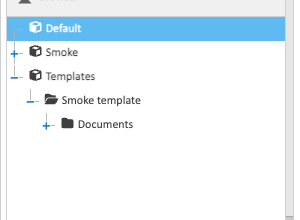
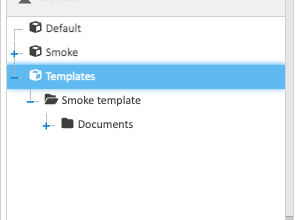
Fix the User and Admin pages after review
From the whole-branch review of PR B, checked against the code:
- Looking up a version by number opens a window with Preview and
  Download, not the Versions tab.
- A Store's own permission change isn't checked against its matters, so
  making a Store private means changing its matters too.
- The Subclass list needs each option's Category set to its Class, under
  the Healdan profile's attribute set.
- Remember me saves the user name and password; the scope picker lasts
  until the browser closes; the search-folder dialog's labels and
  permissions are the dialog's own; and a dozen smaller corrections,
  including Safari's reload shortcut and the default columns.
- The Templates Store screenshot now has Templates selected.

Changed region(s): [[0.0, 0.2727, 0.96, 0.4364], [0.0, 0.0545, 0.96, 0.1909]]

diff --git a/site/content/admin/healdan-settings/index.md b/site/content/admin/healdan-settings/index.md
@@ -4,12 +4,13 @@ weight: 7
 ---
 
 Healdan's own settings are under **Administration → Healdan → Settings**. Click **Save** after changing them.
+Clients are saved from their own window, without Save.
 
 ![The Healdan settings panel: matter labels, numbering, default Class, the Recent Matters window, the next doc #, and the client list with Add client and Edit](healdan-settings.png)
 
 | Setting | What it does |
 |---|---|
-| Matter label, Plural label | the word Healdan uses for a matter, such as Matter and Matters, or Project and Projects. It shows in the scope picker, the left pane's lists, the New Matter dialog and this panel. "Client" can't be changed |
+| Matter label, Plural label | the word Healdan uses for a matter, such as Matter and Matters, or Project and Projects. It shows in the scope picker, the left pane's lists, the New Matter dialog and this panel, and renames the Matter property and the right-click menu items. Others see it after they next sign in. "Client" can't be changed |
 | Numbering | per client or system-wide. See [Matter Numbers](../clients-and-matters/#matter-numbers) |
 | Default Class | the Class a document gets when nothing above it sets one. "Docs" to begin with |
 | Recent Matters window | how many days of a person's work their Recent Matters list covers. 30 to begin with |
@@ -18,5 +19,9 @@ Healdan's own settings are under **Administration → Healdan → Settings**. Cl
 
 ## The Class and Subclass Lists
 
-The choices for Class and Subclass are kept on the Healdan profile, under **Administration → Document metadata →
-Templates**. Each Subclass belongs to one Class.
+The choices for Class and Subclass belong to the Healdan profile's attribute set:
+
+1. Go to **Administration → Document metadata → Templates**, and open the **Attribute sets** tab.
+2. Select **Healdan profile**, then the **Class** or **Subclass** attribute, and open its **Options**.
+3. For each Subclass option, put the Class it belongs to in its **Category**. Healdan refuses a Subclass whose
+   Category isn't the document's Class.

diff --git a/site/content/user/getting-started/getting-around/index.md b/site/content/user/getting-started/getting-around/index.md
@@ -8,7 +8,7 @@ weight: 2
 ## The Top Bar
 
 - **Account** has your profile and password. **Tools** has a few utilities.
-- **The help icon** opens the documentation, and **the power icon** signs you out.
+- **The help icon** opens a Support menu, and **the power icon** signs you out.
 - **The search box** is on the right, with its scope picker beside it. See [Searching](../../finding-documents/searching/).
 
 ## The Tabs
@@ -26,13 +26,14 @@ Administrators also see an **Administration** tab.
 - **My Matters:** the matters you've chosen to keep at hand.
 - **Recent Matters:** the matters you've worked in lately.
 - **Browser:** the folder tree, with the Stores you can see at the top and their matters inside them.
-- **Bookmarks:** documents and folders you've bookmarked.
+- **Bookmarks:** documents and folders you've bookmarked. Your My Matters are kept as bookmarks, so they show here too.
 - **Trash:** things you've deleted, until they're emptied.
 
 [My Matters and Recent Matters](../../finding-documents/my-matters-and-recent-matters/) explains the first two.
 
-**The list** in the middle shows the open folder's documents, with each one's file name, version, doc # and when it
-was last changed. The toolbar above it has the upload button, among others.
+**The list** in the middle shows the open folder's documents: each one's file name, file version, doc #, when it was
+last changed, its size, Author and Class. Scroll sideways for the last columns. The toolbar above it has the upload
+button, among others.
 
 **The details** under the list show the selected document:
 
@@ -46,4 +47,5 @@ was last changed. The toolbar above it has the upload button, among others.
 
 More tabs appear when you have the permissions for them, such as Security.
 
-**The right-hand panel** shows a preview of the selected document too.
+**The right-hand panel** can show a preview of the selected document too. If it shows a **Reload** button, as in the
+picture, click it.

diff --git a/site/content/user/finding-documents/search-folders.md b/site/content/user/finding-documents/search-folders.md
@@ -4,7 +4,8 @@ weight: 3
 ---
 
 A **search folder** is a folder in a matter whose list of documents comes from a rule, such as "documents anyone
-changed in the last 30 days". It can't hold documents or folders of its own. Templates often include two:
+changed in the last 30 days". It can't hold documents or folders of its own. A template might include two, for
+example:
 
 - **Recent Work:** documents anyone in the matter changed in the last 30 days.
 - **My Recent Work:** documents you changed in the last 30 days. Each person sees their own list.
@@ -19,15 +20,16 @@ changed in the last 30 days". It can't hold documents or folders of its own. Tem
 
 ## Creating One
 
-Right-click a folder in the matter and choose **New search folder…**. Only admins can create one directly inside a
-matter's workspace, as with any folder there. The rule has these parts:
+Right-click a folder in the matter and choose **New search folder…**. You need the Add permission on that folder, and
+only admins can create one directly inside a matter's workspace, as with any folder there. The rule has these parts:
 
-| Part | Choices |
+| Field | Choices |
 |---|---|
-| Window | changed in the last *N* days |
-| Whose changes | anyone's, or only the person viewing |
-| Kind | everything, documents only, or emails only |
+| Changed within | the last *N* days |
+| Only my changes | ticked: only the changes of the person viewing; unticked: anyone's |
+| Show | Documents and emails, Documents only, or Emails only |
 | Class | optional: only documents of this Class |
-| Subclass | optional: only documents of this Subclass |
+| Subclass | optional: only documents of this Subclass. It needs a Class |
 
-To change a rule, right-click the search folder and choose **Edit search folder…**.
+To change a rule, right-click the search folder and choose **Edit search folder…**, which needs the Write permission.
+Renaming it needs Rename.

diff --git a/site/content/user/finding-documents/searching/index.md b/site/content/user/finding-documents/searching/index.md
@@ -4,7 +4,7 @@ weight: 1
 ---
 
 The search box is at the top right of the screen. The scope picker beside it says what to search: **Documents**
-unless you change it. It remembers your choice until you sign out.
+unless you change it. It remembers your choice until you close the browser.
 
 ![The scope picker open beside the search box, listing Documents, Emails, Docs & Emails, Folders, Matters and Clients](scopes.png)
 
@@ -20,9 +20,9 @@ unless you change it. It remembers your choice until you sign out.
 | Matters | a matter number such as `998.1`, or words | the matter with that number, opened straight away; or the matters whose name or description contains the words |
 | Clients | a client number or words | the matters of every client whose number or name matches |
 
-Your install may call matters *projects*. The Matters and Clients scopes then use that word.
+Your install may call matters *projects*. The Matters scope then uses that word.
 
-## Words Inside Files
+## Full-Text Search
 
 Full-text search finds words inside documents, including Word, Excel and PowerPoint files, PDFs, and emails' text
 and attachment names. A document is searchable shortly after it's filed.
@@ -31,7 +31,8 @@ and attachment names. A document is searchable shortly after it's filed.
 
 - **`998.1`** opens matter 1 of client 998.
 - **A bare number,** such as `1`, depends on how your install numbers matters. If each client numbers its own
-  matters, it lists every matter numbered 1. If matter numbers are unique across the system, it opens that matter.
+  matters, it lists every matter numbered 1, or opens it if there's only one. If matter numbers are unique across the
+  system, it opens that matter.
 - **Matter results show their client's name,** so two clients' "Leases" matters can be told apart.
 
 ## Results

diff --git a/site/content/admin/stores/index.md b/site/content/admin/stores/index.md
@@ -13,12 +13,18 @@ a Store the same way, with **Rename**.
 
 ## Who Can See a Store
 
-A Store's permissions decide who can see it, and so who can see the matters in it. Set them on the Store's
+A Store's permissions decide who can see it, and they limit who can see the matters in it. Set them on the Store's
 **Security** tab.
+
+**Before creating matters, let the groups your templates use read the Store.** A new Store usually lets in only the
+admin who created it, and New Matter refuses a matter that a group can read when the Store doesn't let that group
+in: "Everyone can read this matter but not its Store".
 
 - **A matter needs its Store.** Every group a matter lets read the matter must also be able to read its Store.
   Healdan checks this when a matter is created, when its permissions change and when it moves to another Store, so
   a matter in a private Store such as Personal can't be read by people who can't see the Store.
+- **Changing a Store's own permissions doesn't re-check its matters.** If you take a group off a Store, the matters
+  in it that let that group read them still do. To make a Store more private, change its matters' permissions too.
 - **A matter's owner** is the one exception: they need only be able to read the Store themselves.
 
 ## Stores Healdan Treats Differently
@@ -30,5 +36,5 @@ A Store's permissions decide who can see it, and so who can see the matters in i
 
 ## Where Files Are Kept
 
-Every Store keeps its files in the same place on the server, by each file's internal number. So moving a matter to
-another Store changes only the database, and is quick.
+All Stores share one **storage backend**: the place on the server where file contents are kept, by each file's
+internal number. So moving a matter to another Store changes only the database, and is quick.

diff --git a/site/content/user/finding-documents/finding-by-doc-number/index.md b/site/content/user/finding-documents/finding-by-doc-number/index.md
@@ -18,14 +18,18 @@ With the search box's scope on **Documents**, type the doc # with a `#` in front
 | `#1234.2` or `#1234v2` | version 2 as it stands: its latest snapshot |
 | `#1234.2.1` or `#1234v2.1` | exactly snapshot 2.1 |
 
-![The search box with #3 typed in, and the Search tab listing one result: Charterparty – MV Northern Star.docx, doc # 3](doc-number-lookup.png)
+![The search box with #3 typed in, and the result list showing one document: Charterparty – MV Northern Star.docx, doc # 3](doc-number-lookup.png)
 
-A space after the `#` is fine. The result is just that document, ready to open, preview, download, or to look at
-its properties and versions. For a version or snapshot, its row in the Versions tab is a click away. See
-[Versions](../../documents/versions/).
+A space after the `#` is fine.
+
+- **For `#1234`,** the Search tab lists just that document, ready to open, preview, download, or to look at its
+  properties and versions.
+- **For a version or snapshot,** a window titled "#1234 version 2.1" shows when that version was saved and by whom,
+  with **Preview** and **Download** buttons. See [Versions](../../documents/versions/).
 
 - **It's found the moment it's filed.** Doc # lookups don't wait for the search index.
-- **If you can't read the document,** Healdan answers as if it didn't exist: "No document #1234".
+- **If you can't read the document,** Healdan answers as if it didn't exist: "No document #1234". A version that
+  doesn't exist answers "Document #1234 has no version 2.1".
 - **Without the `#`,** `1234` is an ordinary full-text search, because numbers appear inside documents too.
 
 ## Legacy Doc \#

diff --git a/site/content/admin/clients-and-matters/index.md b/site/content/admin/clients-and-matters/index.md
@@ -4,7 +4,8 @@ weight: 2
 ---
 
 Every matter belongs to a client, and only admins create them. A matter **is** its workspace: one folder in a
-Store, copied from a template.
+Store, copied from a template. Your install can call matters something else, such as projects: see the matter label
+in [Healdan Settings](../healdan-settings/).
 
 ## Clients
 
@@ -39,16 +40,18 @@ Then adjust the workspace's permissions on its **Security** tab, if the template
 
 ## Matter Numbers
 
-How matters are numbered is set once per install, in [Healdan Settings](../healdan-settings/):
+How matters are numbered is one setting for the whole install, in [Healdan Settings](../healdan-settings/). Choose it
+before clients start sharing matter numbers:
 
 | | Per client (the default) | System-wide |
 |---|---|---|
 | Unique across | the client's matters, so 998.1 and 999.1 can both exist | all matters |
 | Suggested number | the client's highest matter number plus one | the highest matter number in the system plus one |
-| Searching for `1` in the Matters scope | lists every matter numbered 1 | opens that matter |
+| Searching for `1` in the Matters scope | lists every matter numbered 1, or opens it if there's only one | opens that matter |
 
 Switching from system-wide to per client is always allowed. Switching from per client to system-wide is allowed only
-if no two clients share a matter number; otherwise Healdan lists the clashes.
+if no two clients share a matter number; otherwise Healdan lists the clashes. Matter numbers can't be changed, so once
+two clients share one, numbering stays per client.
 
 ## Editing and Deleting a Matter
 

diff --git a/site/content/admin/permissions.md b/site/content/admin/permissions.md
@@ -14,6 +14,7 @@ but no folder can let in someone its parent doesn't.
 
 - **Narrowing a parent narrows its children.** If you take a group's access away from a folder, Healdan takes it away
   from the restricted folders inside it too.
+- **Moving, copying or restoring a folder** into a more restricted folder narrows it to fit, without asking.
 - **"Apply to subfolders" can't open a restricted folder.** LogicalDOC's option replaces every subfolder's
   permissions with the parent's, which would widen a restricted folder. Inside Stores, Healdan allows it only to
   someone with the Security permission on every restricted folder below, or to an admin.
@@ -37,5 +38,9 @@ doc # or a link, but not by browsing. The rule that folders only narrow doesn't 
 
 ## What These Rules Don't Do
 
-Permissions are checked when they're saved. If someone joins or leaves a group later, Healdan doesn't re-check the
-matters that group can read against their Stores.
+Permissions are checked when they're saved, so two changes aren't checked:
+
+- **A Store's own permissions.** Taking a group off a Store leaves the matters in it readable by that group, if their
+  own permissions let it in. Change the matters' permissions too.
+- **Group membership.** If someone joins or leaves a group later, Healdan doesn't re-check the matters that group can
+  read against their Stores.

diff --git a/site/content/user/getting-started/signing-in/index.md b/site/content/user/getting-started/signing-in/index.md
@@ -17,8 +17,10 @@ matters and the search box. So some screens still look like LogicalDOC's. A new 
 Your administrator sets your user name and a first password. Change the password once you're in, from your
 profile: see [Your Profile and Password](../your-profile-and-password/).
 
-- **Remember me** keeps you signed in on this browser. Leave it unticked on a computer others use.
-- **Choose your language** sets the language of Healdan's screens.
+- **Remember me** saves your user name and password in this browser, and fills them in next time. Leave it unticked
+  on a computer others use.
+- **Choose your language** sets the language of Healdan's screens. These docs describe them in English. In other
+  languages, some of Healdan's labels, such as Doc # and Date filed, still show LogicalDOC's wording.
 
 ## Signing Out
 

diff --git a/site/content/user/getting-started/clearing-your-browsers-cache.md b/site/content/user/getting-started/clearing-your-browsers-cache.md
@@ -12,7 +12,8 @@ version than the server, it shows a page asking you to clear your browser's cach
 Often a hard reload is enough. With Healdan open, press:
 
 - **Windows and Linux:** `Ctrl` + `Shift` + `R`
-- **Mac:** `Cmd` + `Shift` + `R`
+- **Mac, in Chrome, Edge or Firefox:** `Cmd` + `Shift` + `R`
+- **Mac, in Safari:** `Option` + `Cmd` + `R`
 
 ## Clearing the Cache
 
@@ -24,7 +25,7 @@ If a hard reload doesn't help, clear the cache. You don't need to clear cookies 
 
 1. Press `Ctrl` + `Shift` + `Delete` (`Cmd` + `Shift` + `Delete` on a Mac).
 2. Choose **Cached images and files**, and untick everything else.
-3. Click **Clear data** (Chrome) or **Clear now** (Edge).
+3. Click **Delete data** (Chrome) or **Clear now** (Edge).
 
 {{< /tab >}}
 

diff --git a/site/content/user/documents/versions.md b/site/content/user/documents/versions.md
@@ -17,7 +17,7 @@ So version 2.3 is the third snapshot after version 2 was started, and the next n
 
 ## Where to See Them
 
-- **The Version column** in the documents list shows the version the file was last saved as.
+- **The File version column** in the documents list shows the version the file was last saved as.
 - **The Versions tab** shows the whole timeline, every snapshot included. Preview or download any of them from
   there.
 - **To go back to an earlier snapshot,** promote it from the Versions tab. That saves it as the latest.

diff --git a/site/content/user/working-with-matters/emails.md b/site/content/user/working-with-matters/emails.md
@@ -12,7 +12,8 @@ When an email is filed, Healdan fills in its properties from the message:
 
 - **From, To and CC.** Several recipients are separated by commas.
 - **Subject.**
-- **Sent and Received.** For a `.eml` file without a Received time, Healdan uses its delivery date.
+- **Sent and Received.** For a `.eml` file without a Received time, Healdan uses its delivery date. A `.msg` file
+  keeps only one date, so its Received is the same as its Sent.
 
 ## Its Name
 
